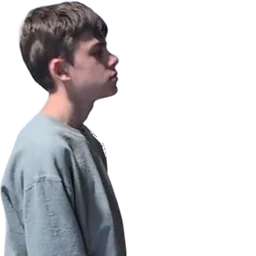
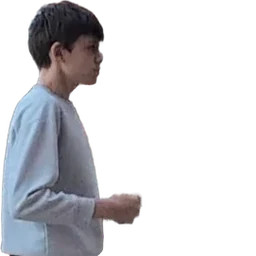
pofighter: Matt joins, Nick is re-filmed, and the select screen gets its sprites
Finishes what a0f5f937 synced half-done (it put Matt on the roster before his
sheet existed, so the unit gate rightly stopped that deploy).

- Nick (p1) and Matt are packed from the 2026-11-27 phone videos: 10 moves
  each, cut with birefnet-general-lite, plus portrait and select art.
- pack.py takes a "quality" key (Matt's sheet: 4.2 MB -> 3.3 MB at 82).
- A slow ratings call no longer leaves "could not be loaded" over a running
  tournament or demo (the mode is settled before the first await).
- The tournament field shows on a phone: setup is only hidden behind a tab
  when the card has a tab strip.
- Before/after: SCREENSHOTS/261128-pofighter-select.html.

diff --git a/SCREENSHOTS/261128-pofighter-select.html b/SCREENSHOTS/261128-pofighter-select.html
@@ -1,0 +1,52 @@
+<!doctype html>
+<html lang="en"><head><meta charset="utf-8"><meta name="viewport" content="width=device-width,initial-scale=1">
+<title>261128-pofighter-select</title>
+<style>
+  :root { color-scheme: light; font-family: Inter, system-ui, sans-serif; }
+  body { margin: 0; padding: 16px; background: #f6f7fb; color: #1b1f2a; }
+  h1 { font-size: 20px; margin: 0 0 4px; }
+  .meta { color: #4a5163; font-size: 13px; margin: 0 0 12px; }
+  ul.notes { margin: 0 0 16px; padding-left: 20px; font-size: 13px; }
+  section { background: #fff; border: 1px solid #dfe3ec; border-radius: 10px; padding: 10px; margin: 0 0 12px; }
+  h2 { font-size: 14px; margin: 0 0 8px; }
+  .pair { display: flex; gap: 12px; flex-wrap: wrap; align-items: flex-start; }
+  figure { margin: 0; }
+  figcaption { font-size: 12px; font-weight: 600; margin: 0 0 4px; }
+  figcaption.before { color: #9a3412; } figcaption.after { color: #166534; }
+  img { display: block; max-width: 100%; border: 1px solid #dfe3ec; border-radius: 6px; }
+</style></head>
+<body>
+<h1>PoFighter: select screen, new Nick, Matt</h1>
+<p class="meta">PoMiniGames · 261128-pofighter-select · before | after, 1366×768 and 390×844, captured locally (scripts/screenshots.ps1)</p>
+<ul class="notes"><li>Every start card is now the select screen: the pick large on the left, who they meet large on the right, VS between, a one-row cursor grid underneath.</li><li>Arcade shows the first rung of the ladder, Practice the bag, Tournament the two top seeds. Left / Right move the cursor from the grid or the OK button.</li><li>Nick is re-filmed (2026-11-27) and Matt is new: both are 10-move fighters cut from phone video.</li><li>Practice and Tournament cards are wide like Arcade, and the tournament field now shows on a phone (it had no Setup tab to open).</li></ul>
+<section><h2>/pofighter/1player · 390 px</h2>
+<div class="pair">
+<figure><figcaption class="before">Before</figcaption><img src="261128-pofighter-select/pofighter-1player-390-before.png" alt="Before: pofighter-1player at 390 px"></figure>
+<figure><figcaption class="after">After</figcaption><img src="261128-pofighter-select/pofighter-1player-390-after.png" alt="After: pofighter-1player at 390 px"></figure>
+</div></section>
+<section><h2>/pofighter/1player · 1366 px</h2>
+<div class="pair">
+<figure><figcaption class="before">Before</figcaption><img src="261128-pofighter-select/pofighter-1player-1366-before.png" alt="Before: pofighter-1player at 1366 px"></figure>
+<figure><figcaption class="after">After</figcaption><img src="261128-pofighter-select/pofighter-1player-1366-after.png" alt="After: pofighter-1player at 1366 px"></figure>
+</div></section>
+<section><h2>/pofighter/arcade · 390 px</h2>
+<div class="pair">
+<figure><figcaption class="before">Before</figcaption><img src="261128-pofighter-select/pofighter-arcade-390-before.png" alt="Before: pofighter-arcade at 390 px"></figure>
+<figure><figcaption class="after">After</figcaption><img src="261128-pofighter-select/pofighter-arcade-390-after.png" alt="After: pofighter-arcade at 390 px"></figure>
+</div></section>
+<section><h2>/pofighter/arcade · 1366 px</h2>
+<div class="pair">
+<figure><figcaption class="before">Before</figcaption><img src="261128-pofighter-select/pofighter-arcade-1366-before.png" alt="Before: pofighter-arcade at 1366 px"></figure>
+<figure><figcaption class="after">After</figcaption><img src="261128-pofighter-select/pofighter-arcade-1366-after.png" alt="After: pofighter-arcade at 1366 px"></figure>
+</div></section>
+<section><h2>/pofighter/tournament · 390 px</h2>
+<div class="pair">
+<figure><figcaption class="before">Before</figcaption><img src="261128-pofighter-select/pofighter-tournament-390-before.png" alt="Before: pofighter-tournament at 390 px"></figure>
+<figure><figcaption class="after">After</figcaption><img src="261128-pofighter-select/pofighter-tournament-390-after.png" alt="After: pofighter-tournament at 390 px"></figure>
+</div></section>
+<section><h2>/pofighter/tournament · 1366 px</h2>
+<div class="pair">
+<figure><figcaption class="before">Before</figcaption><img src="261128-pofighter-select/pofighter-tournament-1366-before.png" alt="Before: pofighter-tournament at 1366 px"></figure>
+<figure><figcaption class="after">After</figcaption><img src="261128-pofighter-select/pofighter-tournament-1366-after.png" alt="After: pofighter-tournament at 1366 px"></figure>
+</div></section>
+</body></html>

diff --git a/src/PoMiniGames.Client/wwwroot/css/game-shell.css b/src/PoMiniGames.Client/wwwroot/css/game-shell.css
@@ -812,7 +812,9 @@ dialog.gps-intro-overlay::backdrop { background: transparent; }
   .gps-intro-tabs--setup-only { display: inline-flex; }
   .gps-intro-section-label--setup-only { display: none; }
   .gps-intro-body[data-view="setup"] > .gps-intro-controls > .gps-intro-panel { display: none; }
-  .gps-intro-body:not([data-view="setup"]) > .gps-intro-options { display: none; }
+  /* Only behind a tab strip: a card with setup and no controls (PoFighter's tournament field) has
+     no Setup tab to open, so its setup stays in view. */
+  .gps-intro-body:not([data-view="setup"]) > .gps-intro-controls ~ .gps-intro-options { display: none; }
 }
 
 /* Key chips: the shell's <kbd> look. A run of them on one line reads as the controls. */

diff --git a/src/PoMiniGames.Client/Features/PoFighter/PoFighterSelect.razor.css b/src/PoMiniGames.Client/Features/PoFighter/PoFighterSelect.razor.css
@@ -69,9 +69,9 @@
 
 .pfs-art img {
     position: absolute;
-    inset: 0;
+    inset: 6% 0 0;
     width: 100%;
-    height: 100%;
+    height: 94%;
     object-fit: contain;
     object-position: center bottom;
     animation: pfs-in 220ms cubic-bezier(.2, .9, .3, 1) both;

diff --git a/scripts/pofighter/pack.py b/scripts/pofighter/pack.py
@@ -38,6 +38,10 @@ two clips, measured by camera.py) instead of from its own reference picture, who
 stance, raised arms, a crouch) skews a height-based size. A move the performer filmed nearer or
 further from the phone takes "scaleAdjust" (e.g. 0.81 when the head is 23% bigger).
 
+"quality" (default 90) is the sheet's WebP quality; its alpha stays lossless. A broad performer
+in patterned clothes (Matt) makes a sheet of 4.2 MB at 90 and 3.3 MB at 82, with no visible loss
+at game size.
+
 "mirror": true is for a performer filmed facing screen-left. The game draws every fighter
 facing right (it flips the one on the right-hand side itself), so each cell is flipped, the
 anchor and reach swap sides, and travel changes sign: walking toward screen-left on video is
@@ -227,7 +231,7 @@ def main() -> None:
         sheet.paste(crop, (fs[0]["x"], fs[0]["y"]))
 
     fighter = cfg["fighter"]
-    sheet.save(out / f"{fighter}.webp", quality=90, alpha_quality=100, method=6)
+    sheet.save(out / f"{fighter}.webp", quality=int(cfg.get("quality", 90)), alpha_quality=100, method=6)
     data = {"fighter": fighter, "sheet": f"{fighter}.webp", "standHeight": stand_px, "res": res, "moves": meta}
     # The fighter's own special (shot-list.html): its clip is the "signature" move above; this
     # block names it and says which button and kind it is. Hand-tuned timings pass through too.

diff --git a/AGENTS.md b/AGENTS.md
@@ -121,7 +121,7 @@ PC's audio device failing under headless Chromium: both fixed, every browser now
 |---|---|---|
 | Format | `dotnet format PoMiniGames.slnx --verify-no-changes` | — |
 | Build | `dotnet build PoMiniGames.slnx -c Release` (warnings are errors) | — |
-| Unit (463) | `dotnet test tests/PoMiniGames.Unit -c Release --no-build` | nothing; runs in CI |
+| Unit (466) | `dotnet test tests/PoMiniGames.Unit -c Release --no-build` | nothing; runs in CI |
 | Integration (15) | `dotnet test tests/PoMiniGames.Integration -c Release --no-build` | Docker (Testcontainers Azurite); every test skips with one reason without it; runs in CI |
 | E2E API (16) | `dotnet test tests/PoMiniGames.E2EAPI -c Release --no-build` | Azurite on 127.0.0.1:10000/10002 (`docker compose up -d azurite`); local only |
 | E2E UI (24 methods, 30 cases) | `pwsh scripts/run-e2eui.ps1` (publishes the trimmed Release build to a temp folder and runs the tier against it via `POMINIGAMES_E2EUI_APP_DIR`; `-Filter` narrows it) | Docker + Playwright Chromium (skips with one reason without either); local only, ~40 min, heavy. Plain `dotnet test tests/PoMiniGames.E2EUI` still runs the in-process (untrimmed) host |

diff --git a/scripts/pofighter/README.md b/scripts/pofighter/README.md
@@ -84,7 +84,8 @@ On the owner's laptop (Snapdragon X, x64 Python under emulation, 2026-11-27) one
 all kept; the full model draws a little more finger detail), so Nick's and Matt's 2026-11-27 sheets
 (128 and 127 pictures) were cut with it; rerunning `cutout.py` without `--model` into an empty cut
 folder and packing again replaces them with no other change. DirectML on that laptop's GPU runs out
-of memory on BiRefNet, so the CPU is the only route there.
+of memory on BiRefNet, so the CPU is the only route there; run one `cutout.py` at a time (two
+together ran its 16 GB out of memory).
 
 A fixed phone (a tripod) makes everything easier: `camera.py` then measures no pan or zoom, and
 `"scaleFrom": "idle"` gives every move the stance's size.
